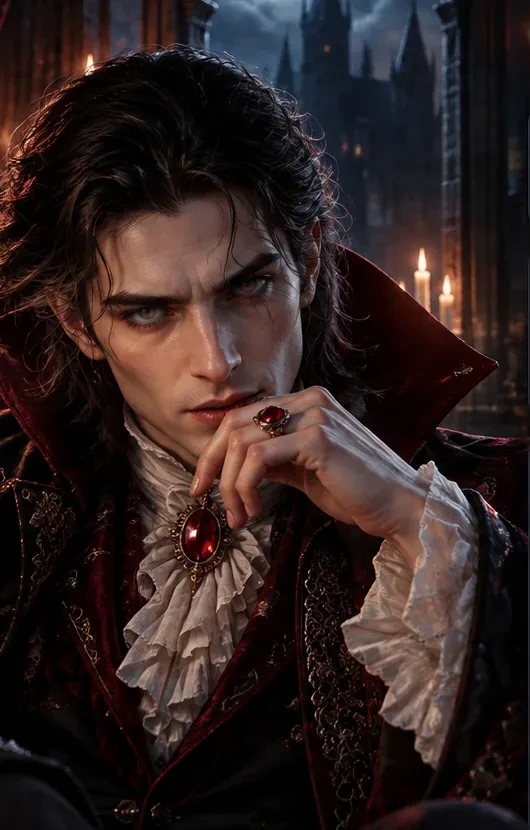
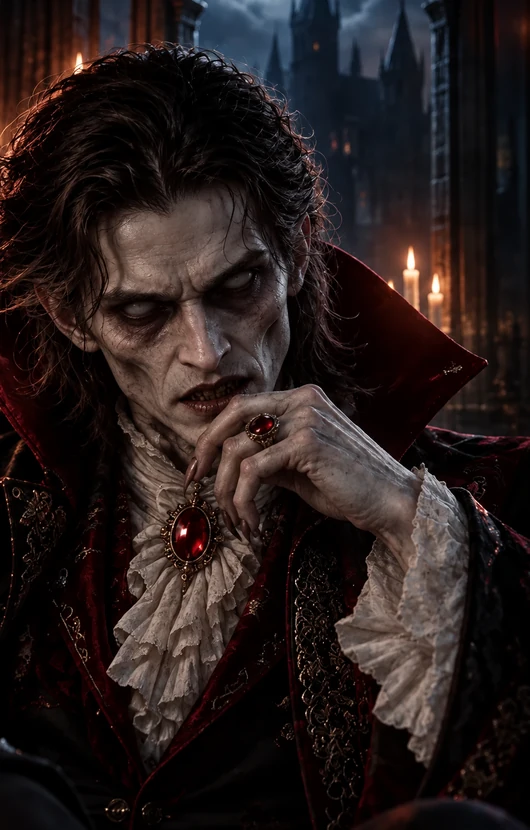
Remplacer le portrait du vampire et clarifier le pourcentage affiché

diff --git a/assets/vampire_scene.html b/assets/vampire_scene.html
@@ -9,7 +9,7 @@
 .photo{width:100%;height:100%;object-fit:cover;object-position:50% 36%;display:block;position:absolute;inset:0;will-change:transform;transition:filter .2s ease;filter:saturate(1.08) contrast(1.03)}
 .scene:before{content:"";position:absolute;inset:0;z-index:2;pointer-events:none;background:linear-gradient(180deg,rgba(8,9,19,.54) 0%,rgba(8,9,19,0) 19%,rgba(11,8,18,0) 57%,rgba(6,6,14,.94) 100%),linear-gradient(90deg,rgba(9,9,18,.25),transparent 42%,rgba(11,7,17,.10));}
 .scene:after{content:"";position:absolute;inset:0;z-index:7;pointer-events:none;border-radius:22px;box-shadow:inset 0 0 70px rgba(0,0,0,.42),inset 0 0 0 1px rgba(255,255,255,.08)}
-.gaze{position:absolute;z-index:4;pointer-events:none;transform:translate(-50%,-50%);width:15px;height:10px;border-radius:50%;background:radial-gradient(ellipse at 42% 40%,#1a0007 0%,#48030d 33%,#b71330 59%,rgba(255,25,75,0) 82%);mix-blend-mode:screen;opacity:.89;filter:blur(.4px) drop-shadow(0 0 3px rgba(241,28,63,.35));will-change:transform,left,top}
+.gaze{position:absolute;z-index:4;pointer-events:none;transform:translate(-50%,-50%);width:15px;height:15px;border-radius:50%;background:radial-gradient(ellipse at 42% 40%,#1a0007 0%,#48030d 33%,#b71330 59%,rgba(255,25,75,0) 82%);mix-blend-mode:screen;opacity:.89;filter:blur(.4px) drop-shadow(0 0 3px rgba(241,28,63,.35));will-change:transform,left,top}
 .gaze:after{content:"";position:absolute;width:2px;height:2px;border-radius:50%;background:#ffece0;left:31%;top:21%;opacity:.7}
 .spec{position:absolute;z-index:5;pointer-events:none;inset:0;background:radial-gradient(ellipse at 50% 50%,rgba(166,56,100,.05),transparent 60%);mix-blend-mode:screen}
 .bottom{position:absolute;z-index:8;left:19px;right:19px;bottom:16px;display:flex;flex-direction:column;gap:13px}
@@ -41,7 +41,7 @@
   const root=document.getElementById('scene');
   const photo=document.getElementById('portrait');
   const eyes=[document.getElementById('left-eye'),document.getElementById('right-eye')];
-  const anchors=[[147,314],[250,286]];
+  const anchors=[[143,312],[240,281]];
   const IMAGE_W=530, IMAGE_H=830;
   const reduceMotion=window.matchMedia('(prefers-reduced-motion: reduce)').matches;
   let targetX=0,targetY=0,actualX=0,actualY=0;

diff --git a/streamlit_app.py b/streamlit_app.py
@@ -384,7 +384,7 @@ def population():
             st.warning("Les réglages ont changé, mais le tableau affiché correspond encore au dernier jeu généré. Clique sur « Générer » pour appliquer les nouveaux réglages.")
     a,c=st.columns(2)
     a.metric("Individus",f"{len(df):,}")
-    c.metric("Classe Vampire",f"{df['Vampirisme'].mean():.1%}")
+    c.metric("Pourcentage de vampires",f"{df['Vampirisme'].mean():.1%}")
     t1,t2=st.columns([1,1.3],gap="large")
     with t1:
         ui.vampire_avatar(int((df['Vampirisme']==0).sum()), int((df['Vampirisme']==1).sum()), int(st.session_state['sample_proximity']))
